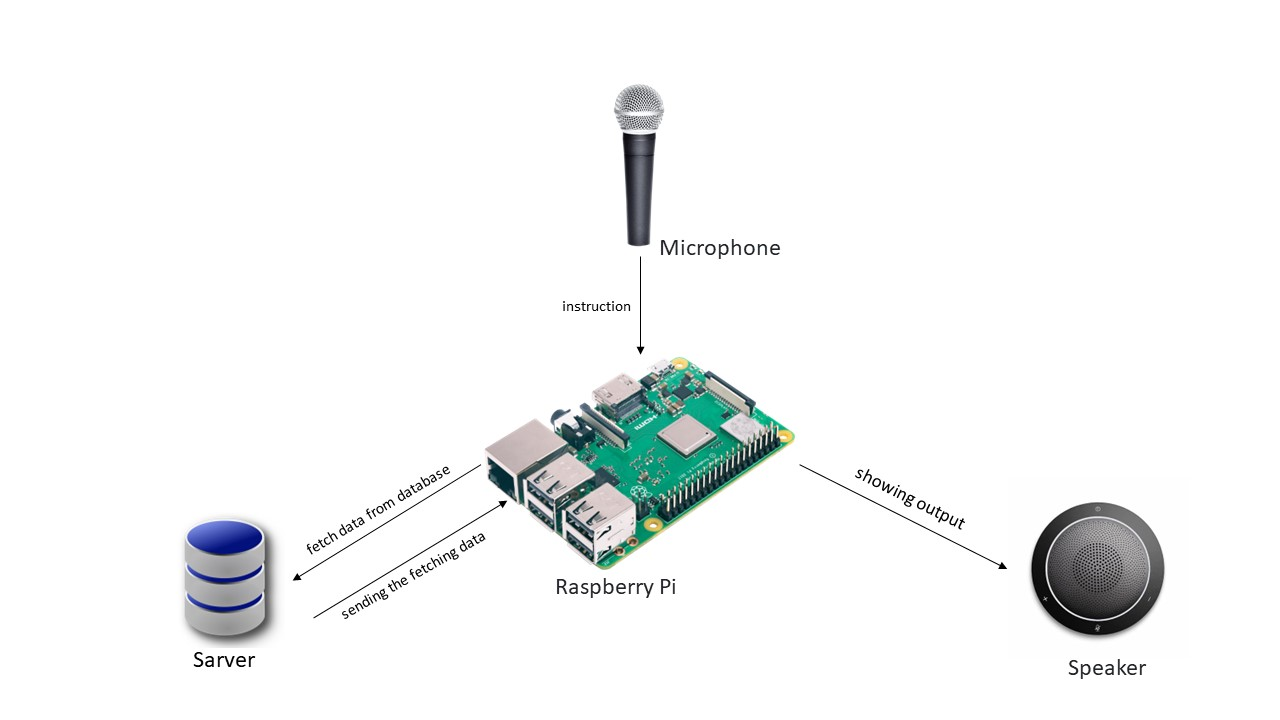
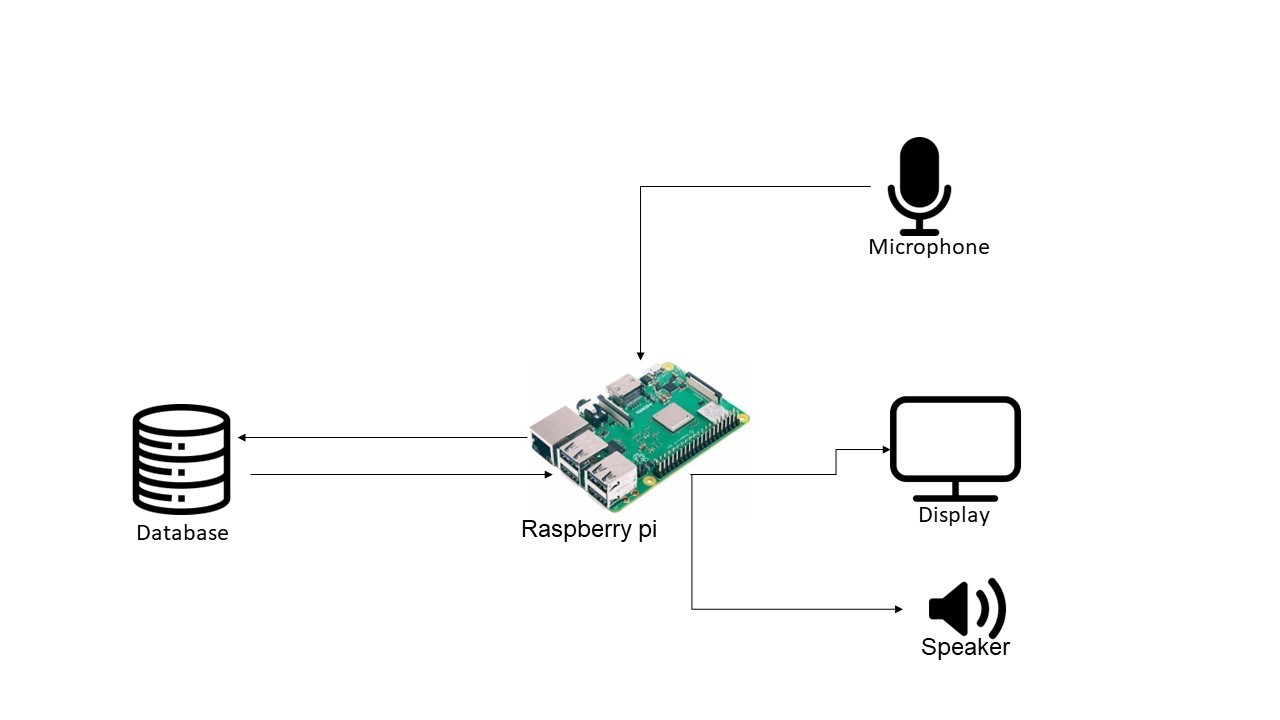
up

diff --git a/index.html b/index.html
@@ -486,7 +486,7 @@
                         <h3 class="text-center">Sketch of URRO</h3>
                         <p>Teasting code of the project, how it's working.</p>
                         <div class="card">
-                            <img src="img\ds1.jpg" style="width: 200px;" alt="">
+                            <img src="img\working\URRO Design.png" style="width: 500px;" alt="">
                         </div>
                     </div>
                 </div>
